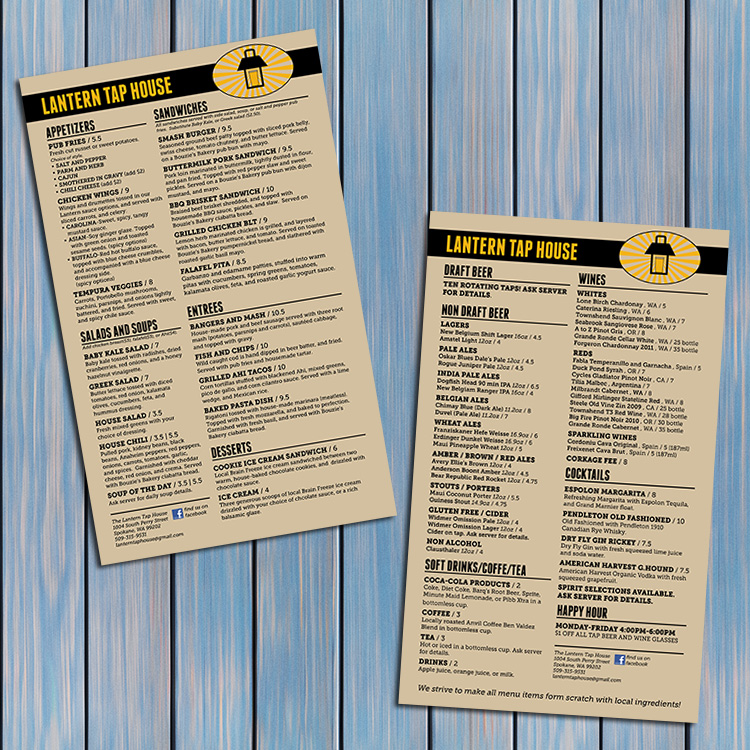
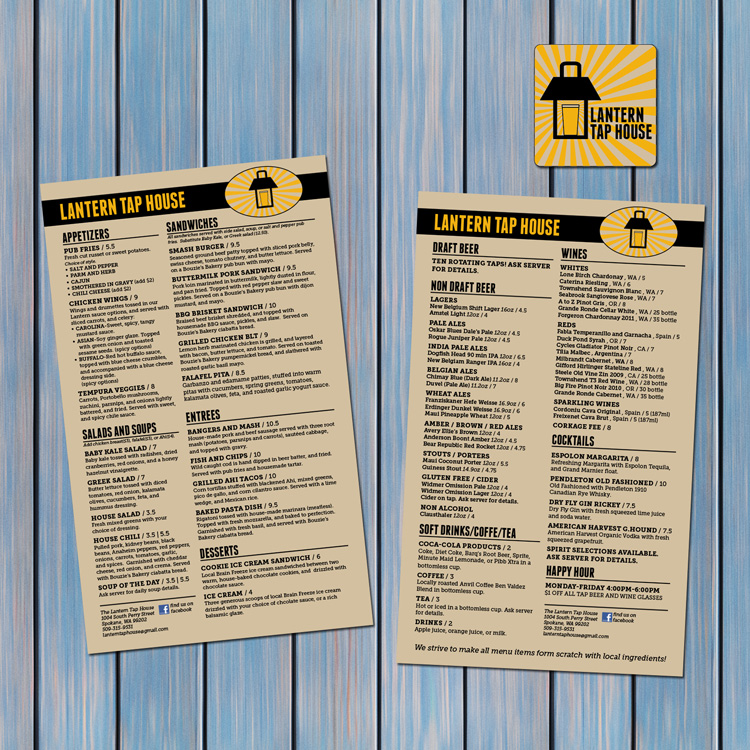
changed fonts and added more content

diff --git a/index.html b/index.html
@@ -1,6 +1,8 @@
 <!doctype html>
 <html lang="en">
 <head>
+  <script type="text/javascript" src="//use.typekit.net/fdz8ach.js"></script>
+  <script type="text/javascript">try{Typekit.load();}catch(e){}</script>
   <meta charset="UTF-8" />
   <title>p4-image gallery</title>
 	
@@ -65,6 +67,17 @@
 		</div>
 		<div class="lightbox-target" id="menu">
 		    <img src="img/nessst_01.jpg"/>
+		    <a class="lightbox-close" href="#"></a>
+	    </div>
+	    <div class="row">
+			<div class="col">
+				<a class="lightbox" href="#menu">
+				    <img src="img/thumb_04.jpg"/>
+				</a> 
+			</div> 
+		</div>
+		<div class="lightbox-target" id="menu">
+		    <img src="img/illustration.jpg"/>
 		    <a class="lightbox-close" href="#"></a>
 	    </div>
 			

diff --git a/css/styles.css b/css/styles.css
@@ -34,9 +34,8 @@ nav a:hover {
 }
 
 object {
-  position: relative;
   z-index: 0;
-  top: 60px;
+  margin-top: 60px;
   width: 100%;
 }
 
@@ -48,6 +47,7 @@ body, html {
 padding: 0;
 margin: 0;
 text-align: center;
+font-family: "lexia";
 }
 
 /* Styles the thumbnail */
@@ -56,7 +56,7 @@ a.lightbox img {
 height: 150px;
 border: 3px solid white;
 box-shadow: 0px 0px 8px rgba(0,0,0,.3);
-margin: 100px 20px;
+margin: 20px;
 }
 
 /* Styles the lightbox, removes it from sight and adds the fade-in transition */
